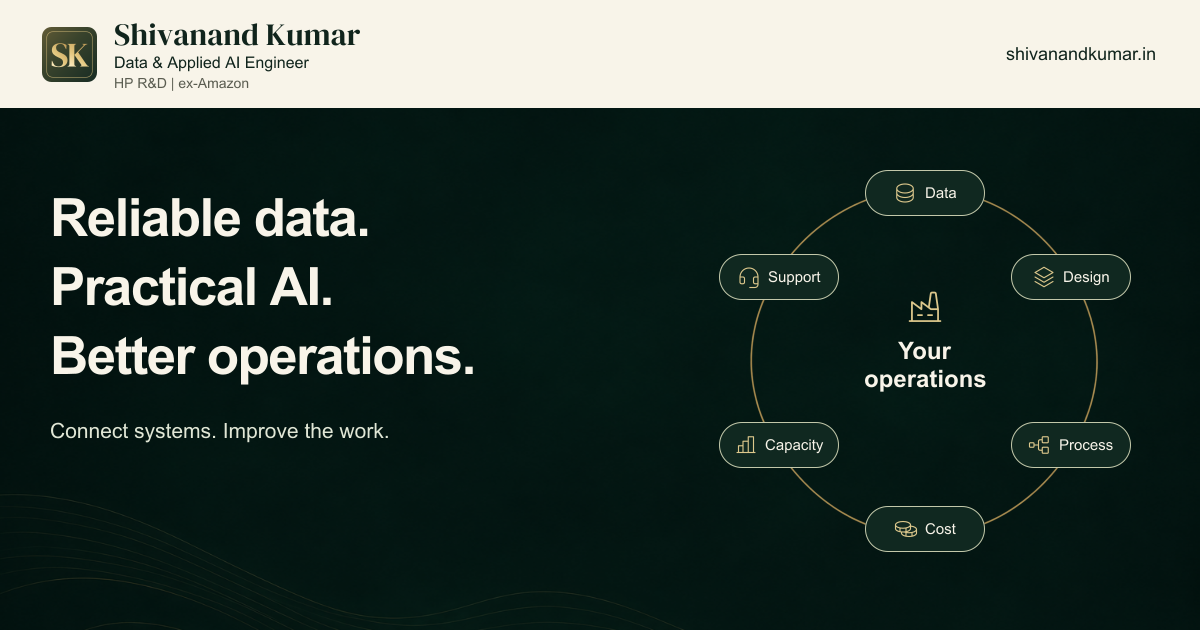
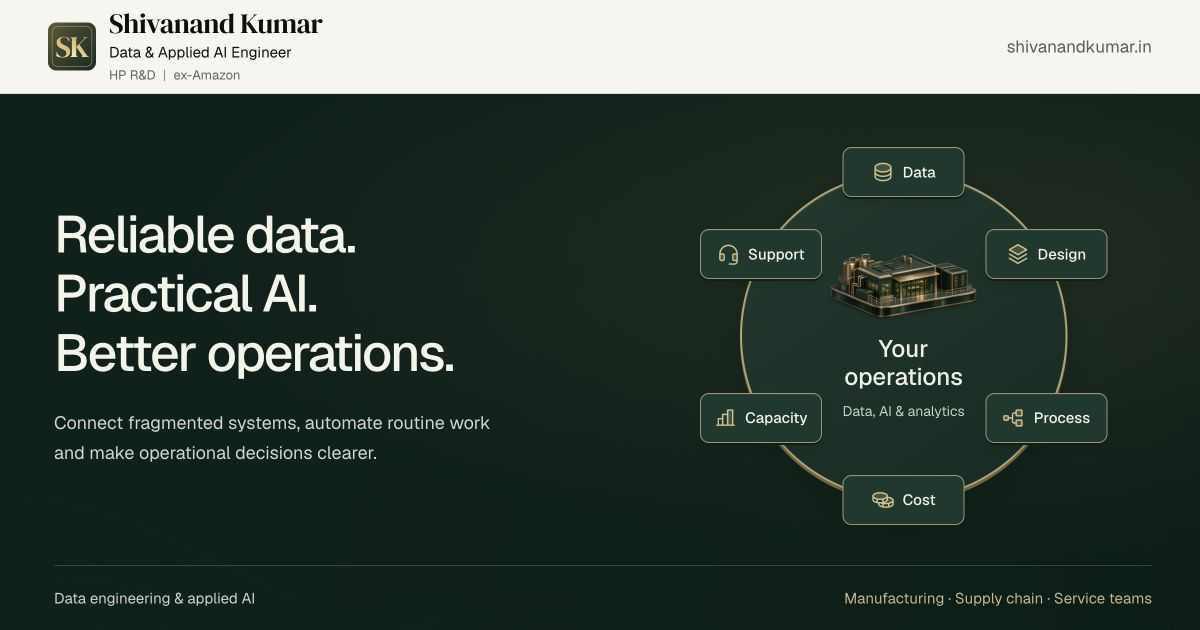
Publish approved mature services design and matching share image

diff --git a/app/mature-homepage.css b/app/mature-homepage.css
@@ -1,0 +1,300 @@
+/* A quieter material and type system for the retained Circular Explorer. */
+.orbit-site {
+  --oe-forest: #0b211b;
+  --oe-surface: #16352c;
+  --oe-paper: #f6f5ef;
+  --oe-brass: #bca16a;
+  --oe-ink: #1c3029;
+  --paper: #f6f5ef;
+  --ink: #1c3029;
+  --oe-interface-font: Geist, 'Helvetica Neue', Arial, sans-serif;
+  color: var(--oe-ink);
+  background: var(--oe-paper);
+  font-size: 16px;
+}
+.orbit-site .oe-shell { width: calc(100% - 9vw); max-width: 1320px; }
+.orbit-site :is(section[id], [id=solutions]) { scroll-margin-top: 116px; }
+.orbit-site .oe-header {
+  min-height: 98px;
+  padding: 15px 4.5vw;
+  background: #f6f5ef;
+  border-bottom-color: #d5dacf;
+}
+.orbit-site .oe-brand { gap: 13px; }
+.orbit-site .oe-brand > img { width: 47px; height: 47px; }
+.orbit-site .oe-brand-copy { gap: 2px; }
+.orbit-site .oe-name { font-size: 27px; font-weight: 400; letter-spacing: -.45px; }
+.orbit-site .oe-role { font-size: 14px; }
+.orbit-site .oe-credentials { color: #5b665c; font-size: 13px; }
+.orbit-site .oe-navigation { gap: 28px; font-size: 15px; font-weight: 500; }
+.orbit-site .oe-navigation > a { display: inline-flex; align-items: center; min-height: 44px; }
+.orbit-site .oe-header-contact {
+  padding: 12px 17px;
+  background: transparent;
+  border-color: #a99a78;
+  border-radius: 4px;
+}
+.orbit-site .oe-header-contact:hover { background: #ececdf; }
+.orbit-site .oe-hero {
+  min-height: min(820px, calc(100svh - 98px));
+  background-color: #0b211b;
+  background-image:
+    radial-gradient(ellipse at 83% 31%, #a28d4721, transparent 58%),
+    linear-gradient(100deg, #0b211bf5 12%, #0b211bd1 56%, #0b211ba6),
+    url('/assets/circular/hero-forest.webp');
+  background-size: cover;
+  background-position: center;
+}
+.orbit-site .oe-stage {
+  grid-template-columns: minmax(0, 1.1fr) minmax(0, 1fr);
+  gap: clamp(32px, 4vw, 70px);
+  min-height: 0;
+  padding-block: 40px 12px;
+}
+.orbit-site .oe-copy { transform: none; padding-bottom: 55px; }
+.orbit-site .oe-heading {
+  font-size: clamp(40px, 4.1vw, 60px);
+  font-weight: 500;
+  line-height: 1.15;
+  letter-spacing: -.045em;
+  margin: 0;
+  color: #f4f4e9;
+}
+.orbit-site .oe-heading span { white-space: normal; }
+.orbit-site .oe-intro {
+  max-width: 440px;
+  margin-top: 26px;
+  color: #cdd7ce;
+  font-size: 18px;
+  line-height: 1.7;
+}
+.orbit-site .oe-actions { gap: 28px; margin-top: 30px; }
+.orbit-site .oe-primary {
+  border-radius: 4px;
+  border-color: #d9c596;
+  background: #d9c596;
+  color: #13291f;
+  font-size: 15px;
+  font-weight: 600;
+  min-height: 50px;
+  padding: 14px 21px;
+  box-shadow: none;
+  text-shadow: none;
+}
+.orbit-site .oe-primary:hover { background: #e5d5b2; border-color: #e5d5b2; }
+.orbit-site .oe-text-link { min-height: 44px; font-size: 15px; font-weight: 400; border-bottom-color: #7e8d76; }
+.orbit-site .oe-orbit-column { align-self: center; }
+.orbit-site .oe-orbit-instruction {
+  margin: 0 0 10px;
+  color: #d5dccf;
+  text-align: center;
+  font-size: 14px;
+  line-height: 1.5;
+}
+.orbit-site .oe-orbit { max-width: 450px; }
+.orbit-site .oe-orbit-material {
+  position: absolute;
+  inset: 11%;
+  z-index: -1;
+  border-radius: 50%;
+  pointer-events: none;
+  background: linear-gradient(145deg, #1e3a2e, #102b22);
+  border: 2px solid #b6a16c;
+  box-shadow: inset 0 1px 1px #ebdfba26, 0 3px 0 #74633f, 0 16px 30px #04130c52;
+}
+.orbit-site :is(.oe-core-plinth, .oe-rim-side, .oe-rim-face, .oe-rim-seam) { display: none; }
+.orbit-site .oe-orbit-button {
+  width: 122px;
+  min-height: 52px;
+  padding: 12px 14px;
+  gap: 8px;
+  border: 1px solid #9f956e;
+  border-radius: 9px;
+  background: #18392d;
+  color: #f3f3e8;
+  font-size: 14px;
+  font-weight: 500;
+  text-shadow: none;
+  box-shadow: inset 0 1px 0 #e0d3ac14, 0 2px 0 #0b1e15, 0 6px 12px #04120c33;
+  transition: background-color .15s ease, border-color .15s ease, color .15s ease;
+}
+.orbit-site .oe-orbit-button svg { width: 23px; height: 23px; color: #d7c08a; filter: none; }
+.orbit-site .oe-orbit-button:hover { background: #254c3a; border-color: #dbc795; box-shadow: inset 0 1px 0 #e0d3ac24, 0 2px 0 #0b1e15, 0 7px 14px #04120c40; }
+.orbit-site .oe-orbit-button:active { background: #2c503e; }
+.orbit-site .oe-orbit-button[aria-expanded=true] { background: #d9c596; color: #142b20; border-color: #e9d9b4; box-shadow: 0 2px 0 #897447, 0 6px 12px #04120c40; }
+.orbit-site .oe-orbit-button[aria-expanded=true] svg { color: #1a3829; }
+.orbit-site .oe-orbit-button:focus-visible { outline: 3px solid #f0deaf; outline-offset: 5px; }
+.orbit-site .oe-orbit-centre { width: 44%; gap: 10px; }
+.orbit-site .oe-hub-model { display: block; width: 82%; height: auto; filter: none; }
+.orbit-site .oe-orbit-centre strong { color: #f0f1e5; font-size: 24px; font-weight: 500; line-height: 1.15; text-shadow: none; }
+.orbit-site .oe-orbit-centre > span { font-size: 14px; line-height: 1.4; font-style: normal; color: #c5d1c4; }
+.orbit-site .oe-summary-slot { min-height: 105px; padding-right: 0; padding-top: 2px; justify-content: center; }
+.orbit-site .oe-summary { width: min(330px, 100%); padding-left: 18px; border-left: 2px solid #bca16a; margin-top: 0; }
+.orbit-site .oe-summary h2 { font-size: 19px; font-weight: 550; }
+.orbit-site .oe-summary p { font-size: 15px; line-height: 1.5; margin: 0 0 4px; color: #cdd7ce; }
+.orbit-site .oe-summary .oe-text-link { font-size: 14px; min-height: 44px; }
+.orbit-site .oe-summary .oe-icon-button { width: 44px; height: 44px; min-width: 44px; min-height: 44px; }
+.orbit-site .oe-trust {
+  min-height: 68px;
+  padding-block: 18px 22px;
+  justify-content: space-between;
+  gap: 24px;
+  border-top-color: #a7b59840;
+}
+.orbit-site .oe-trust > p { padding: 0; border: 0; font-size: 14px; color: #cbd6c9; line-height: 1.6; max-width: none; }
+.orbit-site .oe-trust > p:last-child { color: #bac7b9; }
+.orbit-site .oe-services { padding: 60px 0; background: #f6f5ef; }
+.orbit-site .oe-service-grid { width: calc(100% - 9vw); }
+.orbit-site .oe-service { padding-inline: 32px; border-left-color: #cbd1c1; }
+.orbit-site .oe-service > svg { width: 36px; height: 36px; margin-bottom: 20px; color: #617355; }
+.orbit-site .oe-service-title { font-size: clamp(24px, 2.3vw, 31px); font-weight: 500; }
+.orbit-site .oe-service-description { font-size: 16px; margin-top: 12px; color: #526050; line-height: 1.7; }
+.orbit-site .oe-service-action { min-height: 36px; font-size: 14px; }
+.orbit-site .oe-dialog { background: #f6f5ef; border-color: #b2b59e; border-radius: 8px; padding: 32px; }
+.orbit-site .oe-dialog-top { font-size: 14px; }
+.orbit-site .oe-dialog h2 { font-weight: 500; }
+.orbit-site .oe-dialog p { font-size: 16px; }
+.orbit-site .oe-inputs summary { min-height: 32px; font-size: 15px; }
+.orbit-site .oe-inputs dl { font-size: 15px; }
+.orbit-site .oe-dialog-bottom p { font-size: 14px; }
+.orbit-site .oe-service-action svg, .orbit-site .oe-summary .oe-text-link svg { display: none; }
+.orbit-site .oe-service-action { border-bottom-color: #91a083; }
+@media (min-width: 601px) {
+  .orbit-site .oe-service { display: grid; grid-template-rows: auto auto 1fr auto; align-items: start; }
+  .orbit-site .oe-service-action { align-self: end; justify-self: start; }
+}
+.orbit-site .final-projects, .orbit-site .biz-contact { background: #f6f5ef; }
+.orbit-site :is(.process-section, .final-projects, .final-about, .final-faq, .biz-contact) {
+  padding-block: 72px;
+  padding-inline: max(4.5vw, calc((100vw - 1320px)/2));
+}
+.orbit-site :is(.final-project-intro h2, .final-about h2, .final-faq h2, .biz-contact h2, #process h2, #evaluation-workflow h2) {
+  font-family: var(--oe-interface-font);
+  font-size: clamp(29px, 2.7vw, 38px);
+  font-weight: 500;
+  line-height: 1.22;
+  letter-spacing: -.035em;
+}
+.orbit-site .final-project-copy h3 { font-family: var(--oe-interface-font); font-size: clamp(26px, 2.4vw, 33px); font-weight: 500; line-height: 1.25; }
+.orbit-site .final-project-copy dd,
+.orbit-site .final-project-intro p,
+.orbit-site .process-list p,
+.orbit-site .final-faq-intro p,
+.orbit-site .final-faq details p,
+.orbit-site .final-career p { font-size: 16px; line-height: 1.75; }
+.orbit-site .final-project-copy dt,
+.orbit-site .final-project-boundary,
+.orbit-site .final-role,
+.orbit-site .final-technical summary,
+.orbit-site .final-technical p,
+.orbit-site .process-output small,
+.orbit-site .biz-privacy { font-size: 14px; line-height: 1.7; }
+.orbit-site .process-list h3 { font-family: var(--oe-interface-font); font-size: 22px; font-weight: 500; line-height: 1.3; }
+.orbit-site .process-output strong { font-size: 15px; font-weight: 500; }
+.orbit-site .final-project-evidence { background: #17352b; padding: 28px; border-radius: 4px; }
+.orbit-site .final-project-evidence figcaption { font-family: var(--oe-interface-font); font-size: 21px; font-weight: 500; line-height: 1.4; }
+.orbit-site .final-project-evidence :is(dt, .final-mask-label, .final-evidence-note) { font-size: 14px; line-height: 1.65; }
+.orbit-site .final-project-evidence dd { font-size: 15px; line-height: 1.7; }
+.orbit-site .final-project-evidence dl > div { grid-template-columns: 112px 1fr; gap: 18px; }
+.orbit-site .final-about { background: #17352b; }
+.orbit-site .final-about h2 { font-size: 33px; }
+.orbit-site .final-about p { font-size: 16px; }
+.orbit-site .final-about .final-about-role { font-size: 15px; }
+.orbit-site .final-career h3 { font-size: 18px; font-weight: 500; }
+.orbit-site .final-career .final-role { font-size: 14px; }
+.orbit-site .final-faq { background: #eaede5; }
+.orbit-site .final-faq summary { font-size: 16px; }
+.orbit-site .biz-contact .biz-privacy { font-size: 14px; }
+.orbit-site .evaluation-motion-section { background: #f6f5ef; }
+
+@media (min-width: 981px) and (max-height: 800px) {
+  .orbit-site .oe-stage { padding-block: 20px 4px; }
+  .orbit-site .oe-heading { font-size: clamp(40px, 4vw, 54px); }
+  .orbit-site .oe-copy { padding-bottom: 45px; }
+  .orbit-site .oe-orbit { max-width: 390px; }
+  .orbit-site .oe-summary-slot { min-height: 101px; }
+  .orbit-site .oe-orbit-button { min-height: 50px; }
+  .orbit-site .oe-hub-model { width: 80%; }
+  .orbit-site .oe-orbit-centre strong { font-size: 22px; }
+}
+@media (max-width: 1120px) {
+  .orbit-site .oe-navigation { gap: 20px; }
+  .orbit-site .oe-name { font-size: 25px; }
+  .orbit-site .oe-stage { gap: 28px; }
+  .orbit-site .oe-orbit-button { width: 114px; }
+}
+@media (max-width: 980px) {
+  .orbit-site .oe-header { min-height: 96px; padding-inline: 5vw; }
+  .orbit-site .oe-shell { width: calc(100% - 10vw); }
+  .orbit-site .oe-stage { grid-template-columns: 1fr; gap: 35px; padding-top: 48px; }
+  .orbit-site .oe-copy { padding-bottom: 0; }
+  .orbit-site .oe-heading { font-size: clamp(35px, 6.3vw, 50px); }
+  .orbit-site .oe-intro { max-width: 480px; }
+  .orbit-site .oe-orbit-column { margin-top: 0; }
+  .orbit-site .oe-orbit { max-width: 420px; }
+  .orbit-site .oe-summary-slot { min-height: 112px; }
+  .orbit-site .oe-trust { flex-direction: column; align-items: flex-start; gap: 6px; }
+  .orbit-site .oe-service-grid { width: calc(100% - 10vw); }
+  .orbit-site .oe-service { padding-inline: 24px; }
+  .orbit-site .oe-service-title { font-size: 23px; }
+  .orbit-site .oe-service-description { font-size: 16px; }
+}
+@media (max-width: 600px) {
+  .orbit-site .oe-header { min-height: 92px; padding: 14px 20px; }
+  .orbit-site .oe-brand { gap: 10px; }
+  .orbit-site .oe-brand > img { width: 38px; height: 38px; }
+  .orbit-site .oe-name { font-size: 23px; }
+  .orbit-site .oe-role { font-size: 13px; }
+  .orbit-site .oe-credentials { font-size: 12px; }
+  .orbit-site .oe-shell { width: calc(100% - 40px); }
+  .orbit-site .oe-stage { padding-top: 38px; gap: 32px; }
+  .orbit-site .oe-heading { font-size: clamp(31px, 8.2vw, 40px); line-height: 1.17; }
+  .orbit-site .oe-intro { font-size: 16px; margin-top: 22px; max-width: 340px; }
+  .orbit-site .oe-actions { gap: 22px; margin-top: 25px; }
+  .orbit-site .oe-primary { min-height: 49px; padding: 13px 17px; font-size: 14px; }
+  .orbit-site .oe-text-link { font-size: 14px; }
+  .orbit-site .oe-orbit-instruction { font-size: 14px; margin-bottom: 10px; }
+  .orbit-site .oe-orbit { width: 100%; max-width: 370px; }
+  .orbit-site .oe-orbit-button { width: 106px; min-height: 48px; font-size: 14px; gap: 6px; padding: 10px 8px; border-radius: 8px; }
+  .orbit-site .oe-orbit-button svg { width: 21px; height: 21px; }
+  .orbit-site .oe-orbit-centre { width: 45%; gap: 9px; }
+  .orbit-site .oe-hub-model { width: 88%; }
+  .orbit-site .oe-orbit-centre strong { font-size: 21px; }
+  .orbit-site .oe-orbit-centre > span { font-size: 14px; white-space: normal; }
+  .orbit-site .oe-summary-slot { min-height: 112px; }
+  .orbit-site .oe-summary { max-width: 285px; }
+  .orbit-site .oe-trust { padding-block: 20px 24px; }
+  .orbit-site .oe-services { padding-block: 10px 20px; }
+  .orbit-site .oe-service-grid { width: calc(100% - 40px); grid-template-columns: 1fr; gap: 0; }
+  .orbit-site .oe-service { padding: 26px 0; border-left: 0; border-top: 1px solid #cbd1c1; display: grid; grid-template-columns: 30px 1fr; column-gap: 16px; row-gap: 8px; }
+  .orbit-site .oe-service:first-child { border-top: 0; }
+  .orbit-site .oe-service > svg { width: 29px; height: 29px; grid-row: 1/3; margin: 2px 0 0; }
+  .orbit-site .oe-service-title { font-size: 23px; grid-column: 2; white-space: normal; }
+  .orbit-site .oe-service-description { grid-column: 2; grid-row: 2; margin: 0; max-width: none; font-size: 16px; }
+  .orbit-site .oe-service-action { grid-column: 2; grid-row: 3; justify-self: start; margin: 0; min-height: 36px; font-size: 14px; border-bottom: 1px solid #91a083; }
+  .orbit-site :is(.process-section, .final-projects, .final-about, .final-faq, .biz-contact) { padding: 48px 20px; }
+  .orbit-site .final-project-evidence { padding: 23px 20px; }
+  .orbit-site .final-project-evidence dl > div { grid-template-columns: 92px 1fr; gap: 14px; }
+  .orbit-site .final-project-evidence figcaption { font-size: 21px; }
+  .orbit-site .final-project-copy h3 { font-size: 27px; }
+  .orbit-site .final-about h2 { font-size: 28px; }
+  .orbit-site .oe-dialog { padding: 24px; }
+  .orbit-site .oe-dialog h2 { font-size: 28px; }
+  .orbit-site .oe-dialog p { font-size: 16px; }
+  .orbit-site .oe-dialog-bottom p { font-size: 14px; }
+}
+@media (max-width: 350px) {
+  .orbit-site .oe-header { padding-inline: 14px; gap: 8px; }
+  .orbit-site .oe-brand { gap: 8px; }
+  .orbit-site .oe-brand > img { width: 30px; height: 30px; }
+  .orbit-site .oe-name { font-size: 20px; }
+  .orbit-site .oe-role { font-size: 12px; }
+  .orbit-site .oe-credentials { font-size: 12px; }
+  .orbit-site .oe-shell { width: calc(100% - 32px); }
+  .orbit-site .oe-orbit-button { width: 93px; gap: 4px; padding-inline: 6px; font-size: 14px; }
+  .orbit-site .oe-orbit-button svg { width: 18px; height: 18px; }
+  .orbit-site .oe-orbit-centre strong { font-size: 18px; }
+  .orbit-site .oe-orbit-centre > span { display: none; }
+  .orbit-site .oe-actions { gap: 15px; }
+  .orbit-site .oe-primary { padding-inline: 13px; }
+}

diff --git a/app/components/CircularHomepage.jsx b/app/components/CircularHomepage.jsx
@@ -62,7 +62,7 @@ export default function CircularHomepage({legacyMarkup,footerMarkup}) {
   function closeApproach() { dialogRef.current?.close();setApproach(null);requestAnimationFrame(()=>openerRef.current?.focus({preventScroll:true})); }
   function discuss(id) { closeApproach();requestAnimationFrame(()=>{updateEnquiry(id);jump('contact');}); }
 
-  useEffect(()=>{updateEnquiry();rootRef.current.querySelectorAll('[data-evaluation-motion]').forEach(board=>{board.classList.add('is-paused');const b=board.querySelector('.evaluation-motion-toggle');if(b){b.textContent='Play';b.setAttribute('aria-label','Play workflow animation');b.setAttribute('aria-pressed','true');}});},[]);
+  useEffect(()=>{updateEnquiry();rootRef.current.querySelectorAll('[data-evaluation-motion]').forEach(board=>{board.classList.add('is-paused');const b=board.querySelector('.evaluation-motion-toggle');if(b){b.textContent='Play';b.setAttribute('aria-label','Play workflow animation');b.setAttribute('title','Play workflow animation');b.removeAttribute('aria-pressed');}});},[]);
   useEffect(()=>{if(approach&&dialogRef.current&&!dialogRef.current.open)dialogRef.current.showModal();},[approach]);
   useEffect(()=>{if(selected){updateEnquiry(selected);const summary=document.getElementById('challenge-summary');if(summary&&summary.getBoundingClientRect().bottom>window.innerHeight-16)summary.scrollIntoView({behavior:'instant',block:'nearest'});}},[selected]);
 
@@ -71,7 +71,7 @@ export default function CircularHomepage({legacyMarkup,footerMarkup}) {
     const tab=el.closest('[data-work-tab]');
     if(tab){rootRef.current.querySelectorAll('[data-work-tab]').forEach(item=>{const active=item===tab;item.setAttribute('aria-selected',String(active));item.tabIndex=active?0:-1;document.getElementById(item.getAttribute('aria-controls')).hidden=!active;});}
     const motion=el.closest('.evaluation-motion-toggle');
-    if(motion){const board=motion.closest('[data-evaluation-motion]'),paused=!board.classList.contains('is-paused');board.classList.toggle('is-paused',paused);motion.textContent=paused?'Play':'Pause';motion.setAttribute('aria-label',paused?'Play workflow animation':'Pause workflow animation');motion.setAttribute('aria-pressed',String(paused));}
+    if(motion){const board=motion.closest('[data-evaluation-motion]'),paused=!board.classList.contains('is-paused');board.classList.toggle('is-paused',paused);motion.textContent=paused?'Play':'Pause';const label=paused?'Play workflow animation':'Pause workflow animation';motion.setAttribute('aria-label',label);motion.setAttribute('title',label);motion.removeAttribute('aria-pressed');}
     const link=el.closest('a[href^="#"]');
     if(link){const id=link.getAttribute('href').slice(1);if(document.getElementById(id)){event.preventDefault();if(menuRef.current)menuRef.current.open=false;jump(id);}}
   }
@@ -84,23 +84,24 @@ export default function CircularHomepage({legacyMarkup,footerMarkup}) {
     <a className="skip-link" href="#main-content">Skip to main content</a>
     <header className="oe-header">
       <a className="oe-brand" href="#top" aria-label="Shivanand Kumar home"><img src="/brand/sk-mark.svg" width="56" height="56" alt=""/><span className="oe-brand-copy"><span className="oe-name">Shivanand Kumar</span><span className="oe-role">Data &amp; Applied AI Engineer</span><span className="oe-credentials">HP R&amp;D <span aria-hidden="true">|</span> ex-Amazon</span></span></a>
-      <nav className="oe-navigation" aria-label="Primary navigation"><a href="#projects">Projects</a><a href="#about">About</a><a className="oe-header-contact" href="#contact">Discuss your challenge</a></nav>
-      <details className="oe-mobile-menu" ref={menuRef}><summary aria-label="Open navigation"><ListIcon size={24}/></summary><nav aria-label="Mobile navigation"><a href="#solutions">Explore challenges</a><a href="#projects">Projects</a><a href="#about">About</a><a href="#contact">Discuss your challenge</a></nav></details>
+      <nav className="oe-navigation" aria-label="Primary navigation"><a href="#services">Services</a><a href="#projects">Projects</a><a href="#about">About</a><a className="oe-header-contact" href="#contact">Discuss your challenge</a></nav>
+      <details className="oe-mobile-menu" ref={menuRef}><summary aria-label="Navigation menu"><ListIcon size={24}/></summary><nav aria-label="Mobile navigation"><a href="#solutions">Explore challenges</a><a href="#services">Services</a><a href="#projects">Projects</a><a href="#about">About</a><a href="#contact">Discuss your challenge</a></nav></details>
     </header>
     <main id="main-content" tabIndex={-1}>
       <section className="oe-hero" id="top" aria-labelledby="hero-title">
         <div className="oe-stage oe-shell">
-          <div className="oe-copy"><h1 className="oe-heading" id="hero-title" tabIndex={-1}><span>Reliable data.</span><span>Practical AI.</span><span>Better operations.</span></h1><p className="oe-intro">Connect your systems. Improve the work.</p><div className="oe-actions"><a className="oe-primary" href="#contact">Discuss your challenge</a><a className="oe-text-link" href="#projects">Explore my work</a></div></div>
+          <div className="oe-copy"><h1 className="oe-heading" id="hero-title" tabIndex={-1}><span>Reliable data.</span><span>Practical AI.</span><span>Better operations.</span></h1><p className="oe-intro">Connect fragmented systems, automate routine work and make operational decisions clearer.</p><div className="oe-actions"><a className="oe-primary" href="#contact">Discuss your challenge</a><a className="oe-text-link" href="#projects">Explore my work</a></div></div>
           <div className="oe-orbit-column" id="solutions" aria-label="Explore a business challenge">
-            <div className="oe-orbit" role="group" aria-label="Business challenges">
-              <img className="oe-track" src="/assets/circular/orbit-track.png" alt="" aria-hidden="true"/>
-              <div className="oe-orbit-centre"><FactoryIcon size={48} weight="light" aria-hidden="true"/><strong>Your<br/>operations</strong><span>Choose a challenge</span></div>
-              {topics.map((topic,index)=>{const Icon=topic.icon;return <button key={topic.id} type="button" className="oe-orbit-button" data-orbit={topic.id} style={{left:`${topic.position[0]}%`,top:`${topic.position[1]}%`}} aria-expanded={selected===topic.id} aria-controls="challenge-summary" onClick={()=>choose(topic.id)} onKeyDown={e=>focusAround(e,index)}><Icon size={28} weight="light" aria-hidden="true"/><span>{topic.label}</span></button>;})}
+            <p className="oe-orbit-instruction" id="challenge-help">Choose where work gets stuck</p>
+            <div className="oe-orbit" role="group" aria-label="Business challenges" aria-describedby="challenge-help">
+              <div className="oe-orbit-material" aria-hidden="true"><div className="oe-core-plinth"/><div className="oe-rim-side"/><div className="oe-rim-face"/><div className="oe-rim-seam"/></div>
+              <div className="oe-orbit-centre"><img className="oe-hub-model" src="/assets/circular/operations-hub.webp" width="640" height="302" alt="" aria-hidden="true"/><strong>Your<br/>operations</strong><span>Data, AI &amp; analytics</span></div>
+              {topics.map((topic,index)=>{const Icon=topic.icon;return <button key={topic.id} type="button" className="oe-orbit-button" data-orbit={topic.id} style={{left:`${topic.position[0]}%`,top:`${topic.position[1]}%`}} aria-expanded={selected===topic.id} aria-controls="challenge-summary" onClick={()=>choose(topic.id)} onKeyDown={e=>focusAround(e,index)}><Icon size={28} weight="duotone" aria-hidden="true"/><span>{topic.label}</span></button>;})}
             </div>
             <div className="oe-summary-slot"><div id="challenge-summary" className="oe-summary" hidden={!selectedTopic} aria-live="polite" aria-atomic="true">{selectedTopic&&<><div className="oe-summary-heading"><h2>{selectedTopic.pain}</h2><button className="oe-icon-button" aria-label="Close challenge details" onClick={collapseChallenge}><XIcon size={18}/></button></div><p>{selectedTopic.summary}</p><button className="oe-text-link" onClick={e=>openApproach(selected,e)}>View approach <ArrowRightIcon size={19} aria-hidden="true"/></button></>}</div></div>
           </div>
         </div>
-        <div className="oe-trust oe-shell"><span>Shivanand Kumar</span><p>Data platforms at HP. Supply chain analytics at Amazon.</p></div>
+        <div className="oe-trust oe-shell"><p>Data platforms at HP. Supply chain analytics at Amazon.</p><p>For manufacturing, supply chain and service teams.</p></div>
       </section>
       <section className="oe-services" id="services" aria-label="Services"><div className="oe-service-grid oe-shell">{[{icon:DatabaseIcon,title:'Data platforms',text:'Bring your systems and data together.',id:'data'},{icon:CpuIcon,title:'Applied AI',text:'Find answers. Support better decisions.',id:'design'},{icon:FactoryIcon,title:'Operations',text:'Reduce delays. Understand capacity.',id:'process'}].map(service=>{const Icon=service.icon;return <button key={service.id} className="oe-service" onClick={e=>openApproach(service.id,e)} aria-haspopup="dialog"><Icon size={48} weight="light" aria-hidden="true"/><span className="oe-service-title">{service.title}</span><span className="oe-service-description">{service.text}</span><span className="oe-service-action">Explore <ArrowRightIcon size={17} aria-hidden="true"/></span></button>;})}</div></section>
       <LegacySections markup={legacyMarkup}/>

diff --git a/app/layout.tsx b/app/layout.tsx
@@ -2,7 +2,7 @@ import type { Metadata } from "next";
 import "./base.css";
 
 const title = "Shivanand Kumar — Data & AI Services";
-const description = "Build reliable data and AI infrastructure, connect systems and improve operations. Data engineering and applied AI services for manufacturing, supply chain and service teams.";
+const description = "Connect fragmented systems, automate routine work and make operational decisions clearer. Data engineering and applied AI services for manufacturing, supply chain and service teams.";
 
 export const metadata: Metadata = {
   metadataBase: new URL("https://shivanandkumar.in"),
@@ -21,9 +21,9 @@ export const metadata: Metadata = {
   openGraph: {
     title, description, type: "website", url: "https://shivanandkumar.in/",
     siteName: "Shivanand Kumar — Portfolio & Services",
-    images: [{ url: "/services/circular-explorer.jpg", width: 1200, height: 630, type: "image/jpeg", alt: "Reliable data. Practical AI. Better operations. Shivanand Kumar — Data & Applied AI Engineer." }],
+    images: [{ url: "/services/data-ai-services.jpg", width: 1200, height: 630, type: "image/jpeg", alt: "Reliable data. Practical AI. Better operations. Shivanand Kumar — Data & Applied AI Engineer." }],
   },
-  twitter: { card: "summary_large_image", title, description, images: ["/services/circular-explorer.jpg"] },
+  twitter: { card: "summary_large_image", title, description, images: ["/services/data-ai-services.jpg"] },
 };
 
 export default function RootLayout({ children }: Readonly<{ children: React.ReactNode }>) {

diff --git a/app/page.tsx b/app/page.tsx
@@ -3,6 +3,7 @@ import { join } from "node:path";
 import CircularHomepage from "./components/CircularHomepage";
 import "./homepage.css";
 import "./circular-homepage.css";
+import "./mature-homepage.css";
 
 // The approved circular interface is server rendered. Existing project and
 // experience content remains static, with client-side controls for exploration.
